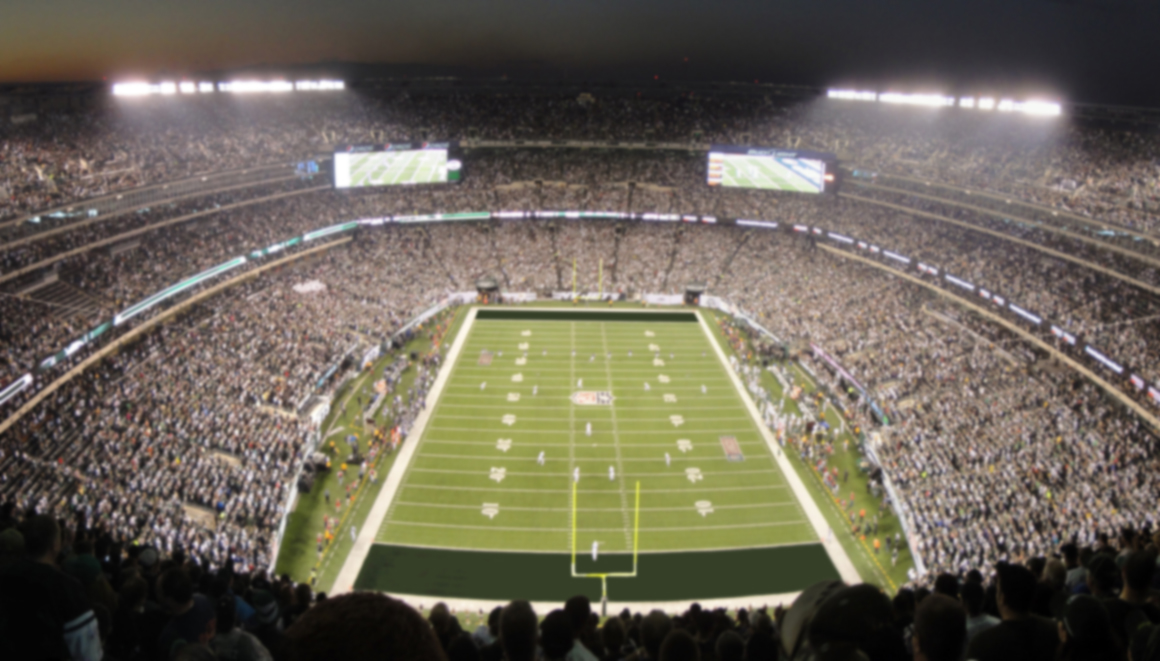
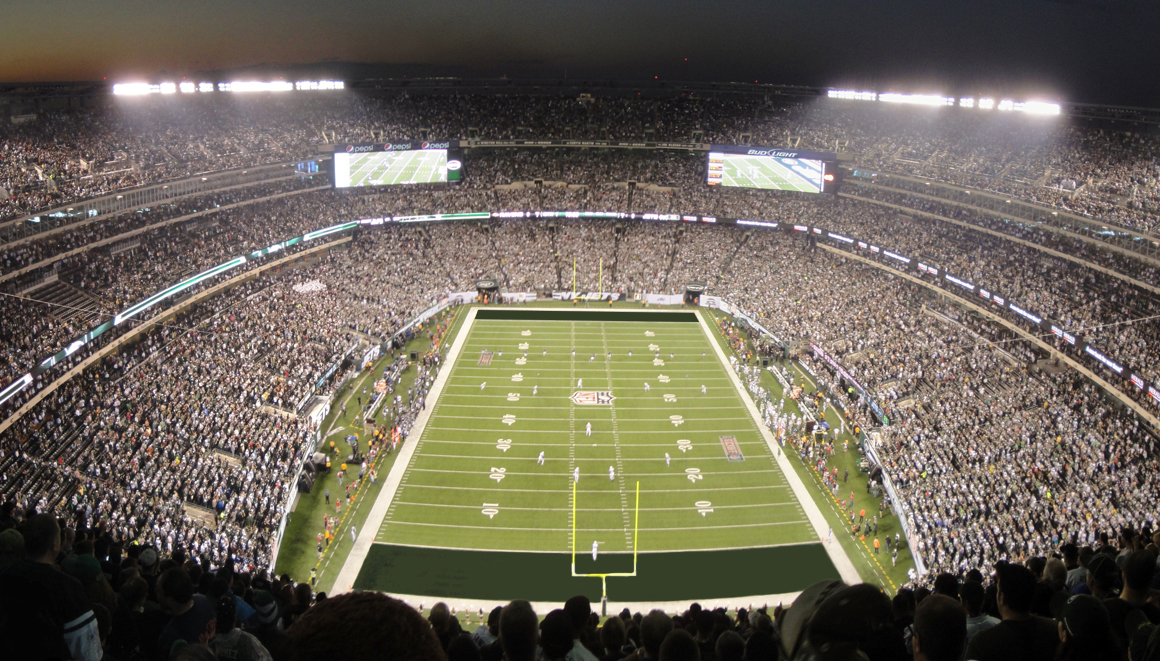
Update goals index, styles.

diff --git a/app/assets/stylesheets/goals.css.scss b/app/assets/stylesheets/goals.css.scss
@@ -17,7 +17,7 @@ body {
   display: table;
   height: 100%;
   width: 100%;
-  background-image: url('field.jpg');
+  background-image: url('field2.jpg');
   background-position: center;
   background-repeat: no-repeat;
   -webkit-background-size: cover;
@@ -73,7 +73,7 @@ body {
   width: 370px;
   height: 370px;
   border-radius: 10px;
-  opacity: .9;
+  opacity: .97;
   color: #222;
   border: #eee solid 1px;
 }
@@ -239,7 +239,7 @@ text-decoration: none;
   width: 370px;
   height: 370px;
   border-radius: 10px;
-  opacity: .9;
+  opacity: .97;
   color: #222;
   border: #eee solid 1px;
 }
@@ -250,6 +250,27 @@ text-decoration: none;
 
 .dashboard table th {
   display: none;
+}
+
+.dashboard table {
+  text-align: center;
+  margin: 0 auto;
+  color: #222;
+}
+
+.dashboard table a {
+  display: block;
+  color: #222;
+  font-size: 1.2em;
+  padding-top: 5px;
+}
+
+.dashboard table a:hover {
+  /*text-decoration: none;*/
+}
+
+.new-link {
+  color: #555;
 }
 
 .goals-table a {
